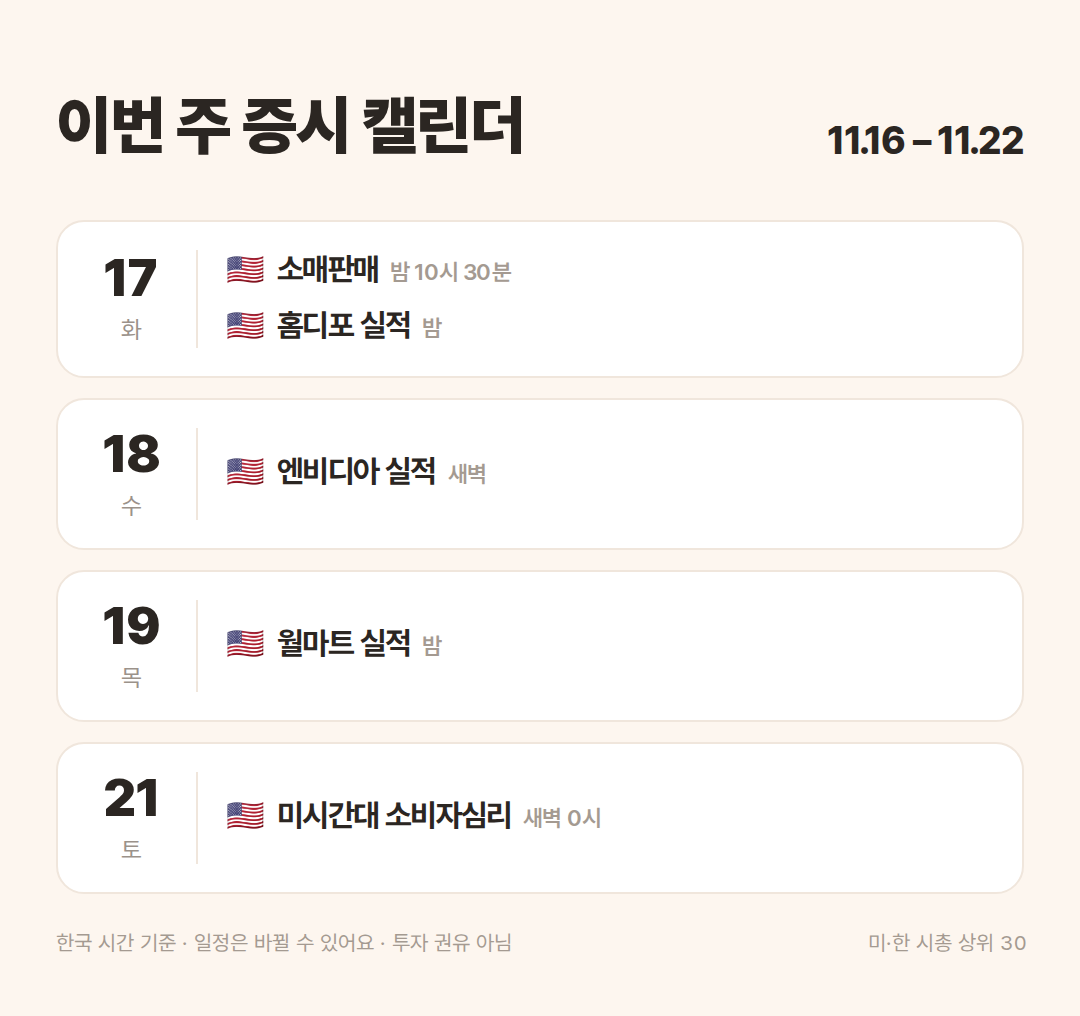
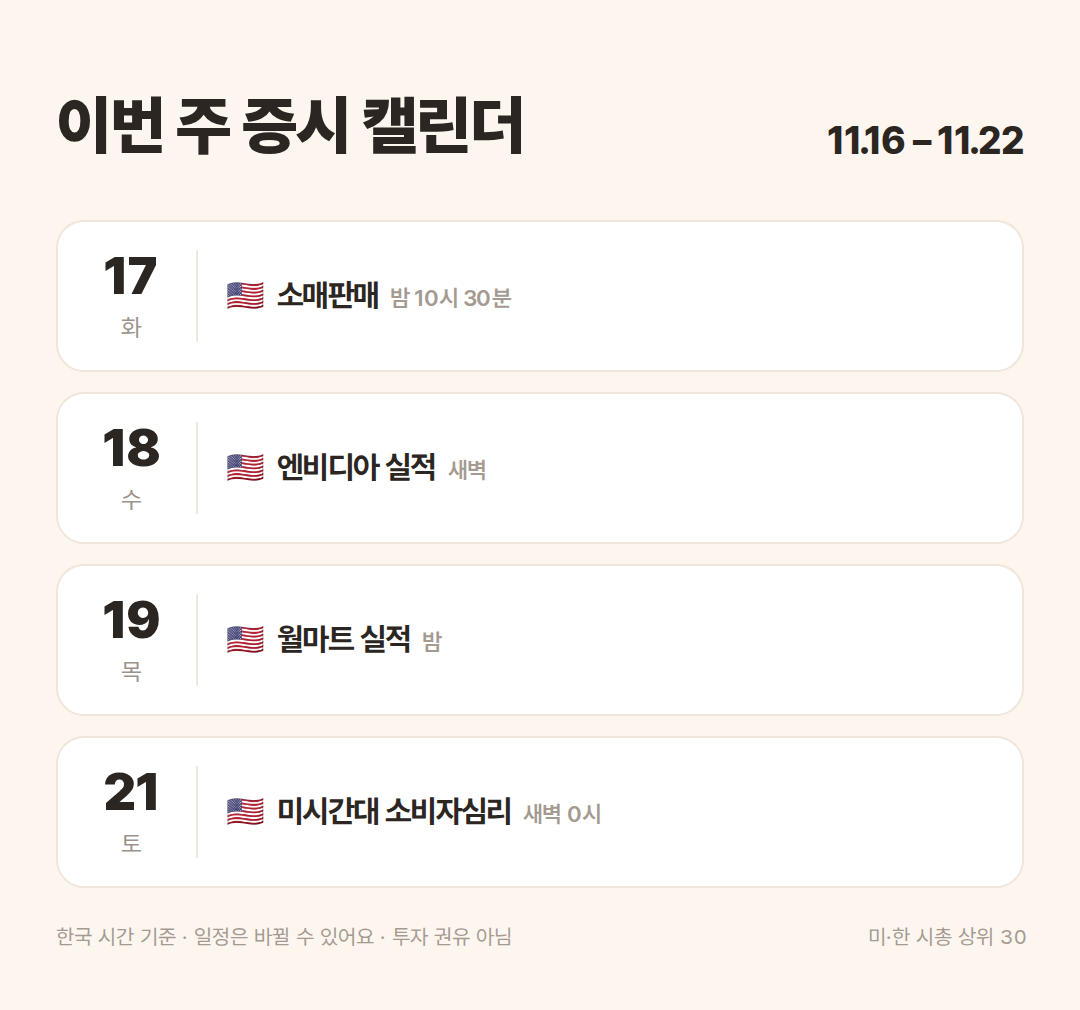
캘린더 갱신 2026-11-18

diff --git a/docs/2026-11-16/index.html b/docs/2026-11-16/index.html
@@ -46,16 +46,16 @@ tr.out{color:var(--sub)}
 </style></head><body>
 <div id="card">
 <div class="head"><h1>이번 주 증시 캘린더</h1><div class="range">11.16 – 11.22</div></div>
-<a class="card" href="#d2026-11-17"><div class="day"><div class="dn">17</div><div class="dw">화</div></div><div class="evs"><div class="ev"><span class="flag">🇺🇸</span><span class="ti">소매판매</span><span class="t">밤 10시 30분</span></div><div class="ev"><span class="flag">🇺🇸</span><span class="ti">홈디포 실적</span><span class="t">밤</span></div></div></a><a class="card" href="#d2026-11-18"><div class="day"><div class="dn">18</div><div class="dw">수</div></div><div class="evs"><div class="ev"><span class="flag">🇺🇸</span><span class="ti">엔비디아 실적</span><span class="t">새벽</span></div></div></a><a class="card" href="#d2026-11-19"><div class="day"><div class="dn">19</div><div class="dw">목</div></div><div class="evs"><div class="ev"><span class="flag">🇺🇸</span><span class="ti">월마트 실적</span><span class="t">밤</span></div></div></a><a class="card" href="#d2026-11-21"><div class="day"><div class="dn">21</div><div class="dw">토</div></div><div class="evs"><div class="ev"><span class="flag">🇺🇸</span><span class="ti">미시간대 소비자심리</span><span class="t">새벽 0시</span></div></div></a>
+<a class="card" href="#d2026-11-17"><div class="day"><div class="dn">17</div><div class="dw">화</div></div><div class="evs"><div class="ev"><span class="flag">🇺🇸</span><span class="ti">소매판매</span><span class="t">밤 10시 30분</span></div></div></a><a class="card" href="#d2026-11-18"><div class="day"><div class="dn">18</div><div class="dw">수</div></div><div class="evs"><div class="ev"><span class="flag">🇺🇸</span><span class="ti">엔비디아 실적</span><span class="t">새벽</span></div></div></a><a class="card" href="#d2026-11-19"><div class="day"><div class="dn">19</div><div class="dw">목</div></div><div class="evs"><div class="ev"><span class="flag">🇺🇸</span><span class="ti">월마트 실적</span><span class="t">밤</span></div></div></a><a class="card" href="#d2026-11-21"><div class="day"><div class="dn">21</div><div class="dw">토</div></div><div class="evs"><div class="ev"><span class="flag">🇺🇸</span><span class="ti">미시간대 소비자심리</span><span class="t">새벽 0시</span></div></div></a>
 <div class="foot"><span>한국 시간 기준 · 일정은 바뀔 수 있어요 · 투자 권유 아님</span><span>미·한 시총 상위 30</span></div>
 </div>
 <main>
-<section id="d2026-11-17"><h2>11월 17일 (화)</h2><div class="row"><span class="flag">🇺🇸</span><div class="rb"><div class="rt">소매판매 <span class="t">밤 10시 30분</span></div><div class="rd">미 동부 8:30 발표 · Advance Monthly Sales for Retail and Food Services</div></div><a class="src" href="https://fred.stlouisfed.org/release?rid=9" target="_blank" rel="noopener">원문 ↗</a></div><div class="row"><span class="flag">🇺🇸</span><div class="rb"><div class="rt">홈디포 실적 <span class="t">밤</span></div><div class="rd">미국 장 시작 전 · EPS 예상 $3.95 · 매출 예상 $44.1B</div></div><a class="src" href="https://www.nasdaq.com/market-activity/stocks/hd/earnings" target="_blank" rel="noopener">원문 ↗</a></div></section><section id="d2026-11-18"><h2>11월 18일 (수)</h2><div class="row"><span class="flag">🇺🇸</span><div class="rb"><div class="rt">엔비디아 실적 <span class="t">새벽</span></div><div class="rd">미국 장 마감 후 · EPS 예상 $2.52 · 매출 예상 $111.3B</div></div><a class="src" href="https://www.nasdaq.com/market-activity/stocks/nvda/earnings" target="_blank" rel="noopener">원문 ↗</a></div></section><section id="d2026-11-19"><h2>11월 19일 (목)</h2><div class="row"><span class="flag">🇺🇸</span><div class="rb"><div class="rt">월마트 실적 <span class="t">밤</span></div><div class="rd">미국 장 시작 전 · EPS 예상 $0.64 · 매출 예상 $189.1B</div></div><a class="src" href="https://www.nasdaq.com/market-activity/stocks/wmt/earnings" target="_blank" rel="noopener">원문 ↗</a></div></section><section id="d2026-11-21"><h2>11월 21일 (토)</h2><div class="row"><span class="flag">🇺🇸</span><div class="rb"><div class="rt">미시간대 소비자심리 <span class="t">새벽 0시</span></div><div class="rd">미 동부 10:00 발표 · Surveys of Consumers</div></div><a class="src" href="https://fred.stlouisfed.org/release?rid=91" target="_blank" rel="noopener">원문 ↗</a></div></section>
+<section id="d2026-11-17"><h2>11월 17일 (화)</h2><div class="row"><span class="flag">🇺🇸</span><div class="rb"><div class="rt">소매판매 <span class="t">밤 10시 30분</span></div><div class="rd">미 동부 8:30 발표 · Advance Monthly Sales for Retail and Food Services</div></div><a class="src" href="https://fred.stlouisfed.org/release?rid=9" target="_blank" rel="noopener">원문 ↗</a></div></section><section id="d2026-11-18"><h2>11월 18일 (수)</h2><div class="row"><span class="flag">🇺🇸</span><div class="rb"><div class="rt">엔비디아 실적 <span class="t">새벽</span></div><div class="rd">미국 장 마감 후 · EPS 예상 $2.52 · 매출 예상 $111.3B</div></div><a class="src" href="https://www.nasdaq.com/market-activity/stocks/nvda/earnings" target="_blank" rel="noopener">원문 ↗</a></div></section><section id="d2026-11-19"><h2>11월 19일 (목)</h2><div class="row"><span class="flag">🇺🇸</span><div class="rb"><div class="rt">월마트 실적 <span class="t">밤</span></div><div class="rd">미국 장 시작 전 · EPS 예상 $0.64 · 매출 예상 $189.1B</div></div><a class="src" href="https://www.nasdaq.com/market-activity/stocks/wmt/earnings" target="_blank" rel="noopener">원문 ↗</a></div></section><section id="d2026-11-21"><h2>11월 21일 (토)</h2><div class="row"><span class="flag">🇺🇸</span><div class="rb"><div class="rt">미시간대 소비자심리 <span class="t">새벽 0시</span></div><div class="rd">미 동부 10:00 발표 · Surveys of Consumers</div></div><a class="src" href="https://fred.stlouisfed.org/release?rid=91" target="_blank" rel="noopener">원문 ↗</a></div></section>
 <h3>백데이터</h3>
 <details><summary>수집 현황</summary><div class="tw"><table><tr><th>소스</th><th>상태</th><th>건수</th><th>오류</th></tr><tr><td>미국 시총 순위 (Finnhub)</td><td>✅</td><td>63</td><td class="err"></td></tr><tr><td>한국 시총 순위 (네이버)</td><td>✅</td><td>30</td><td class="err"></td></tr><tr><td>미국 실적 (Finnhub)</td><td>✅</td><td>5</td><td class="err"></td></tr><tr><td>한국 실적 (DART)</td><td>✅</td><td>0</td><td class="err"></td></tr><tr><td>미국 경제지표 (FRED)</td><td>✅</td><td>2</td><td class="err"></td></tr><tr><td>한국 수출입 (규칙)</td><td>✅</td><td>0</td><td class="err"></td></tr><tr><td>고정 일정 (events.json)</td><td>✅</td><td>0</td><td class="err"></td></tr></table></div></details>
-<details><summary>기준에서 빠진 실적 일정 (2건)</summary><div class="tw"><table><tr><th>날짜</th><th>일정</th><th>이유</th></tr><tr><td>11-17</td><td>디즈니 실적</td><td>미국 시총 47위</td></tr><tr><td>11-21</td><td>인튜이트 실적</td><td>미국 시총 63위</td></tr></table></div></details>
-<details><summary>미국 시총 순위 (후보 63개 중 상위 30)</summary><div class="tw"><table><tr><th>#</th><th>종목</th><th>티커</th><th>시총</th></tr><tr class="in"><td>1</td><td>애플</td><td>AAPL</td><td>$5,127B</td></tr><tr class="in"><td>2</td><td>마이크로소프트</td><td>MSFT</td><td>$3,847B</td></tr><tr class="in"><td>3</td><td>엔비디아</td><td>NVDA</td><td>$3,763B</td></tr><tr class="in"><td>4</td><td>알파벳</td><td>GOOGL</td><td>$3,488B</td></tr><tr class="in"><td>5</td><td>아마존</td><td>AMZN</td><td>$2,787B</td></tr><tr class="in"><td>6</td><td>TSMC</td><td>TSM</td><td>$1,937B</td></tr><tr class="in"><td>7</td><td>메타</td><td>META</td><td>$1,601B</td></tr><tr class="in"><td>8</td><td>브로드컴</td><td>AVGO</td><td>$1,592B</td></tr><tr class="in"><td>9</td><td>테슬라</td><td>TSLA</td><td>$1,501B</td></tr><tr class="in"><td>10</td><td>일라이릴리</td><td>LLY</td><td>$1,347B</td></tr><tr class="in"><td>11</td><td>버크셔해서웨이</td><td>BRK.B</td><td>$1,257B</td></tr><tr class="in"><td>12</td><td>월마트</td><td>WMT</td><td>$980B</td></tr><tr class="in"><td>13</td><td>JP모건</td><td>JPM</td><td>$898B</td></tr><tr class="in"><td>14</td><td>AMD</td><td>AMD</td><td>$827B</td></tr><tr class="in"><td>15</td><td>마이크론</td><td>MU</td><td>$814B</td></tr><tr class="in"><td>16</td><td>비자</td><td>V</td><td>$769B</td></tr><tr class="in"><td>17</td><td>엑슨모빌</td><td>XOM</td><td>$764B</td></tr><tr class="in"><td>18</td><td>존슨앤드존슨</td><td>JNJ</td><td>$680B</td></tr><tr class="in"><td>19</td><td>마스터카드</td><td>MA</td><td>$576B</td></tr><tr class="in"><td>20</td><td>ASML</td><td>ASML</td><td>$546B</td></tr><tr class="in"><td>21</td><td>애브비</td><td>ABBV</td><td>$521B</td></tr><tr class="in"><td>22</td><td>코스트코</td><td>COST</td><td>$494B</td></tr><tr class="in"><td>23</td><td>코카콜라</td><td>KO</td><td>$428B</td></tr><tr class="in"><td>24</td><td>셰브론</td><td>CVX</td><td>$427B</td></tr><tr class="in"><td>25</td><td>P&amp;G</td><td>PG</td><td>$401B</td></tr><tr class="in"><td>26</td><td>팔란티어</td><td>PLTR</td><td>$386B</td></tr><tr class="in"><td>27</td><td>시스코</td><td>CSCO</td><td>$372B</td></tr><tr class="in"><td>28</td><td>유나이티드헬스</td><td>UNH</td><td>$365B</td></tr><tr class="in"><td>29</td><td>오라클</td><td>ORCL</td><td>$360B</td></tr><tr class="in"><td>30</td><td>홈디포</td><td>HD</td><td>$347B</td></tr><tr class="out"><td>31</td><td>뱅크오브아메리카</td><td>BAC</td><td>$346B</td></tr><tr class="out"><td>32</td><td>GE에어로스페이스</td><td>GE</td><td>$336B</td></tr><tr class="out"><td>33</td><td>필립모리스</td><td>PM</td><td>$306B</td></tr><tr class="out"><td>34</td><td>인텔</td><td>INTC</td><td>$295B</td></tr><tr class="out"><td>35</td><td>모건스탠리</td><td>MS</td><td>$290B</td></tr><tr class="out"><td>36</td><td>어플라이드머티어리얼즈</td><td>AMAT</td><td>$278B</td></tr><tr class="out"><td>37</td><td>램리서치</td><td>LRCX</td><td>$263B</td></tr><tr class="out"><td>38</td><td>RTX</td><td>RTX</td><td>$263B</td></tr><tr class="out"><td>39</td><td>캐터필러</td><td>CAT</td><td>$261B</td></tr><tr class="out"><td>40</td><td>골드만삭스</td><td>GS</td><td>$257B</td></tr><tr class="out"><td>41</td><td>웰스파고</td><td>WFC</td><td>$250B</td></tr><tr class="out"><td>42</td><td>넷플릭스</td><td>NFLX</td><td>$250B</td></tr><tr class="out"><td>43</td><td>린데</td><td>LIN</td><td>$240B</td></tr><tr class="out"><td>44</td><td>아리스타</td><td>ANET</td><td>$236B</td></tr><tr class="out"><td>45</td><td>IBM</td><td>IBM</td><td>$229B</td></tr><tr class="out"><td>46</td><td>아메리칸익스프레스</td><td>AXP</td><td>$214B</td></tr><tr class="out"><td>47</td><td>디즈니</td><td>DIS</td><td>$205B</td></tr><tr class="out"><td>48</td><td>펩시코</td><td>PEP</td><td>$200B</td></tr><tr class="out"><td>49</td><td>맥도날드</td><td>MCD</td><td>$194B</td></tr><tr class="out"><td>50</td><td>KLA</td><td>KLAC</td><td>$188B</td></tr><tr class="out"><td>51</td><td>애보트</td><td>ABT</td><td>$186B</td></tr><tr class="out"><td>52</td><td>퀄컴</td><td>QCOM</td><td>$180B</td></tr><tr class="out"><td>53</td><td>T모바일</td><td>TMUS</td><td>$180B</td></tr><tr class="out"><td>54</td><td>세일즈포스</td><td>CRM</td><td>$177B</td></tr><tr class="out"><td>55</td><td>찰스슈왑</td><td>SCHW</td><td>$160B</td></tr><tr class="out"><td>56</td><td>인튜이티브서지컬</td><td>ISRG</td><td>$152B</td></tr><tr class="out"><td>57</td><td>AT&amp;T</td><td>T</td><td>$151B</td></tr><tr class="out"><td>58</td><td>블랙스톤</td><td>BX</td><td>$144B</td></tr><tr class="out"><td>59</td><td>앱러빈</td><td>APP</td><td>$138B</td></tr><tr class="out"><td>60</td><td>우버</td><td>UBER</td><td>$136B</td></tr><tr class="out"><td>61</td><td>부킹홀딩스</td><td>BKNG</td><td>$117B</td></tr><tr class="out"><td>62</td><td>서비스나우</td><td>NOW</td><td>$103B</td></tr><tr class="out"><td>63</td><td>인튜이트</td><td>INTU</td><td>$92B</td></tr></table></div></details>
-<details><summary>한국 시총 상위 30 (보통주)</summary><div class="tw"><table><tr><th>#</th><th>종목</th><th>시장</th><th>시총</th></tr><tr class="in"><td>1</td><td>삼성전자</td><td>KOSPI</td><td>1,113.7조</td></tr><tr class="in"><td>2</td><td>SK하이닉스</td><td>KOSPI</td><td>783.8조</td></tr><tr class="in"><td>3</td><td>SK스퀘어</td><td>KOSPI</td><td>90.6조</td></tr><tr class="in"><td>4</td><td>LG에너지솔루션</td><td>KOSPI</td><td>72.5조</td></tr><tr class="in"><td>5</td><td>삼성바이오로직스</td><td>KOSPI</td><td>66.1조</td></tr><tr class="in"><td>6</td><td>삼성전기</td><td>KOSPI</td><td>56.5조</td></tr><tr class="in"><td>7</td><td>KB금융</td><td>KOSPI</td><td>55.7조</td></tr><tr class="in"><td>8</td><td>현대차</td><td>KOSPI</td><td>52.7조</td></tr><tr class="in"><td>9</td><td>셀트리온</td><td>KOSPI</td><td>49.4조</td></tr><tr class="in"><td>10</td><td>삼성생명</td><td>KOSPI</td><td>48.3조</td></tr><tr class="in"><td>11</td><td>삼성물산</td><td>KOSPI</td><td>42.9조</td></tr><tr class="in"><td>12</td><td>신한지주</td><td>KOSPI</td><td>41.2조</td></tr><tr class="in"><td>13</td><td>삼성SDI</td><td>KOSPI</td><td>36.4조</td></tr><tr class="in"><td>14</td><td>기아</td><td>KOSPI</td><td>35.8조</td></tr><tr class="in"><td>15</td><td>SK</td><td>KOSPI</td><td>34.1조</td></tr><tr class="in"><td>16</td><td>하나금융지주</td><td>KOSPI</td><td>33.9조</td></tr><tr class="in"><td>17</td><td>한화에어로스페이스</td><td>KOSPI</td><td>31.9조</td></tr><tr class="in"><td>18</td><td>현대모비스</td><td>KOSPI</td><td>31.3조</td></tr><tr class="in"><td>19</td><td>두산에너빌리티</td><td>KOSPI</td><td>27.5조</td></tr><tr class="in"><td>20</td><td>HD현대중공업</td><td>KOSPI</td><td>27.2조</td></tr><tr class="in"><td>21</td><td>NAVER</td><td>KOSPI</td><td>25.9조</td></tr><tr class="in"><td>22</td><td>우리금융지주</td><td>KOSPI</td><td>24.0조</td></tr><tr class="in"><td>23</td><td>삼성화재</td><td>KOSPI</td><td>23.4조</td></tr><tr class="in"><td>24</td><td>LG전자</td><td>KOSPI</td><td>21.0조</td></tr><tr class="in"><td>25</td><td>POSCO홀딩스</td><td>KOSPI</td><td>20.8조</td></tr><tr class="in"><td>26</td><td>HMM</td><td>KOSPI</td><td>20.4조</td></tr><tr class="in"><td>27</td><td>메리츠금융지주</td><td>KOSPI</td><td>20.1조</td></tr><tr class="in"><td>28</td><td>KT&amp;G</td><td>KOSPI</td><td>18.8조</td></tr><tr class="in"><td>29</td><td>SK텔레콤</td><td>KOSPI</td><td>17.7조</td></tr><tr class="in"><td>30</td><td>SK이노베이션</td><td>KOSPI</td><td>17.6조</td></tr></table></div></details>
-<div class="meta"><span>업데이트 2026-11-17 13:18 KST</span><span><a href="data.json">data.json</a> · <a href="../">지난 캘린더</a></span></div>
+<details><summary>기준에서 빠진 실적 일정 (3건)</summary><div class="tw"><table><tr><th>날짜</th><th>일정</th><th>이유</th></tr><tr><td>11-17</td><td>홈디포 실적</td><td>미국 시총 31위</td></tr><tr><td>11-17</td><td>디즈니 실적</td><td>미국 시총 47위</td></tr><tr><td>11-20</td><td>인튜이트 실적</td><td>미국 시총 63위</td></tr></table></div></details>
+<details><summary>미국 시총 순위 (후보 63개 중 상위 30)</summary><div class="tw"><table><tr><th>#</th><th>종목</th><th>티커</th><th>시총</th></tr><tr class="in"><td>1</td><td>애플</td><td>AAPL</td><td>$5,114B</td></tr><tr class="in"><td>2</td><td>마이크로소프트</td><td>MSFT</td><td>$3,759B</td></tr><tr class="in"><td>3</td><td>엔비디아</td><td>NVDA</td><td>$3,747B</td></tr><tr class="in"><td>4</td><td>알파벳</td><td>GOOGL</td><td>$3,445B</td></tr><tr class="in"><td>5</td><td>아마존</td><td>AMZN</td><td>$2,789B</td></tr><tr class="in"><td>6</td><td>TSMC</td><td>TSM</td><td>$1,866B</td></tr><tr class="in"><td>7</td><td>브로드컴</td><td>AVGO</td><td>$1,631B</td></tr><tr class="in"><td>8</td><td>메타</td><td>META</td><td>$1,582B</td></tr><tr class="in"><td>9</td><td>테슬라</td><td>TSLA</td><td>$1,501B</td></tr><tr class="in"><td>10</td><td>일라이릴리</td><td>LLY</td><td>$1,332B</td></tr><tr class="in"><td>11</td><td>버크셔해서웨이</td><td>BRK.B</td><td>$1,246B</td></tr><tr class="in"><td>12</td><td>월마트</td><td>WMT</td><td>$980B</td></tr><tr class="in"><td>13</td><td>JP모건</td><td>JPM</td><td>$876B</td></tr><tr class="in"><td>14</td><td>AMD</td><td>AMD</td><td>$826B</td></tr><tr class="in"><td>15</td><td>마이크론</td><td>MU</td><td>$806B</td></tr><tr class="in"><td>16</td><td>비자</td><td>V</td><td>$769B</td></tr><tr class="in"><td>17</td><td>엑슨모빌</td><td>XOM</td><td>$764B</td></tr><tr class="in"><td>18</td><td>존슨앤드존슨</td><td>JNJ</td><td>$671B</td></tr><tr class="in"><td>19</td><td>마스터카드</td><td>MA</td><td>$562B</td></tr><tr class="in"><td>20</td><td>ASML</td><td>ASML</td><td>$537B</td></tr><tr class="in"><td>21</td><td>애브비</td><td>ABBV</td><td>$518B</td></tr><tr class="in"><td>22</td><td>코스트코</td><td>COST</td><td>$492B</td></tr><tr class="in"><td>23</td><td>코카콜라</td><td>KO</td><td>$425B</td></tr><tr class="in"><td>24</td><td>셰브론</td><td>CVX</td><td>$425B</td></tr><tr class="in"><td>25</td><td>P&amp;G</td><td>PG</td><td>$398B</td></tr><tr class="in"><td>26</td><td>팔란티어</td><td>PLTR</td><td>$377B</td></tr><tr class="in"><td>27</td><td>시스코</td><td>CSCO</td><td>$374B</td></tr><tr class="in"><td>28</td><td>유나이티드헬스</td><td>UNH</td><td>$365B</td></tr><tr class="in"><td>29</td><td>오라클</td><td>ORCL</td><td>$348B</td></tr><tr class="in"><td>30</td><td>뱅크오브아메리카</td><td>BAC</td><td>$341B</td></tr><tr class="out"><td>31</td><td>홈디포</td><td>HD</td><td>$338B</td></tr><tr class="out"><td>32</td><td>GE에어로스페이스</td><td>GE</td><td>$337B</td></tr><tr class="out"><td>33</td><td>필립모리스</td><td>PM</td><td>$303B</td></tr><tr class="out"><td>34</td><td>인텔</td><td>INTC</td><td>$293B</td></tr><tr class="out"><td>35</td><td>모건스탠리</td><td>MS</td><td>$287B</td></tr><tr class="out"><td>36</td><td>어플라이드머티어리얼즈</td><td>AMAT</td><td>$277B</td></tr><tr class="out"><td>37</td><td>RTX</td><td>RTX</td><td>$267B</td></tr><tr class="out"><td>38</td><td>램리서치</td><td>LRCX</td><td>$263B</td></tr><tr class="out"><td>39</td><td>캐터필러</td><td>CAT</td><td>$261B</td></tr><tr class="out"><td>40</td><td>골드만삭스</td><td>GS</td><td>$253B</td></tr><tr class="out"><td>41</td><td>웰스파고</td><td>WFC</td><td>$250B</td></tr><tr class="out"><td>42</td><td>넷플릭스</td><td>NFLX</td><td>$245B</td></tr><tr class="out"><td>43</td><td>린데</td><td>LIN</td><td>$236B</td></tr><tr class="out"><td>44</td><td>아리스타</td><td>ANET</td><td>$236B</td></tr><tr class="out"><td>45</td><td>IBM</td><td>IBM</td><td>$218B</td></tr><tr class="out"><td>46</td><td>아메리칸익스프레스</td><td>AXP</td><td>$212B</td></tr><tr class="out"><td>47</td><td>디즈니</td><td>DIS</td><td>$202B</td></tr><tr class="out"><td>48</td><td>맥도날드</td><td>MCD</td><td>$195B</td></tr><tr class="out"><td>49</td><td>펩시코</td><td>PEP</td><td>$194B</td></tr><tr class="out"><td>50</td><td>KLA</td><td>KLAC</td><td>$188B</td></tr><tr class="out"><td>51</td><td>애보트</td><td>ABT</td><td>$181B</td></tr><tr class="out"><td>52</td><td>퀄컴</td><td>QCOM</td><td>$178B</td></tr><tr class="out"><td>53</td><td>T모바일</td><td>TMUS</td><td>$178B</td></tr><tr class="out"><td>54</td><td>세일즈포스</td><td>CRM</td><td>$160B</td></tr><tr class="out"><td>55</td><td>찰스슈왑</td><td>SCHW</td><td>$158B</td></tr><tr class="out"><td>56</td><td>AT&amp;T</td><td>T</td><td>$150B</td></tr><tr class="out"><td>57</td><td>인튜이티브서지컬</td><td>ISRG</td><td>$149B</td></tr><tr class="out"><td>58</td><td>블랙스톤</td><td>BX</td><td>$144B</td></tr><tr class="out"><td>59</td><td>우버</td><td>UBER</td><td>$136B</td></tr><tr class="out"><td>60</td><td>앱러빈</td><td>APP</td><td>$132B</td></tr><tr class="out"><td>61</td><td>부킹홀딩스</td><td>BKNG</td><td>$115B</td></tr><tr class="out"><td>62</td><td>서비스나우</td><td>NOW</td><td>$96B</td></tr><tr class="out"><td>63</td><td>인튜이트</td><td>INTU</td><td>$86B</td></tr></table></div></details>
+<details><summary>한국 시총 상위 30 (보통주)</summary><div class="tw"><table><tr><th>#</th><th>종목</th><th>시장</th><th>시총</th></tr><tr class="in"><td>1</td><td>삼성전자</td><td>KOSPI</td><td>1,117.2조</td></tr><tr class="in"><td>2</td><td>SK하이닉스</td><td>KOSPI</td><td>800.8조</td></tr><tr class="in"><td>3</td><td>SK스퀘어</td><td>KOSPI</td><td>91.6조</td></tr><tr class="in"><td>4</td><td>LG에너지솔루션</td><td>KOSPI</td><td>70.3조</td></tr><tr class="in"><td>5</td><td>삼성바이오로직스</td><td>KOSPI</td><td>64.1조</td></tr><tr class="in"><td>6</td><td>삼성전기</td><td>KOSPI</td><td>57.5조</td></tr><tr class="in"><td>7</td><td>KB금융</td><td>KOSPI</td><td>55.2조</td></tr><tr class="in"><td>8</td><td>현대차</td><td>KOSPI</td><td>52.0조</td></tr><tr class="in"><td>9</td><td>삼성생명</td><td>KOSPI</td><td>49.9조</td></tr><tr class="in"><td>10</td><td>셀트리온</td><td>KOSPI</td><td>48.9조</td></tr><tr class="in"><td>11</td><td>삼성물산</td><td>KOSPI</td><td>43.2조</td></tr><tr class="in"><td>12</td><td>신한지주</td><td>KOSPI</td><td>40.3조</td></tr><tr class="in"><td>13</td><td>기아</td><td>KOSPI</td><td>35.4조</td></tr><tr class="in"><td>14</td><td>삼성SDI</td><td>KOSPI</td><td>34.9조</td></tr><tr class="in"><td>15</td><td>SK</td><td>KOSPI</td><td>34.9조</td></tr><tr class="in"><td>16</td><td>하나금융지주</td><td>KOSPI</td><td>33.5조</td></tr><tr class="in"><td>17</td><td>한화에어로스페이스</td><td>KOSPI</td><td>32.6조</td></tr><tr class="in"><td>18</td><td>현대모비스</td><td>KOSPI</td><td>31.5조</td></tr><tr class="in"><td>19</td><td>두산에너빌리티</td><td>KOSPI</td><td>27.0조</td></tr><tr class="in"><td>20</td><td>HD현대중공업</td><td>KOSPI</td><td>26.6조</td></tr><tr class="in"><td>21</td><td>NAVER</td><td>KOSPI</td><td>25.7조</td></tr><tr class="in"><td>22</td><td>삼성화재</td><td>KOSPI</td><td>24.1조</td></tr><tr class="in"><td>23</td><td>우리금융지주</td><td>KOSPI</td><td>23.8조</td></tr><tr class="in"><td>24</td><td>LG전자</td><td>KOSPI</td><td>21.2조</td></tr><tr class="in"><td>25</td><td>HMM</td><td>KOSPI</td><td>20.8조</td></tr><tr class="in"><td>26</td><td>POSCO홀딩스</td><td>KOSPI</td><td>20.7조</td></tr><tr class="in"><td>27</td><td>메리츠금융지주</td><td>KOSPI</td><td>20.6조</td></tr><tr class="in"><td>28</td><td>KT&amp;G</td><td>KOSPI</td><td>19.1조</td></tr><tr class="in"><td>29</td><td>SK이노베이션</td><td>KOSPI</td><td>17.4조</td></tr><tr class="in"><td>30</td><td>삼성에스디에스</td><td>KOSPI</td><td>17.4조</td></tr></table></div></details>
+<div class="meta"><span>업데이트 2026-11-18 12:23 KST</span><span><a href="data.json">data.json</a> · <a href="../">지난 캘린더</a></span></div>
 </main>
 </body></html>

diff --git a/docs/index.html b/docs/index.html
@@ -3,4 +3,4 @@
 <link href="https://cdn.jsdelivr.net/gh/orioncactus/pretendard@v1.3.9/dist/web/static/pretendard.min.css" rel="stylesheet">
 <style>*{box-sizing:border-box;margin:0}body{background:#fdf6ef;color:#2b2622;font-family:Pretendard,-apple-system,sans-serif;max-width:720px;margin:0 auto;padding:40px 16px}
 h1{font-size:28px;font-weight:900;margin-bottom:20px}.w{display:flex;justify-content:space-between;background:#fff;border:1.5px solid #f0e6dc;border-radius:12px;padding:14px 16px;margin-bottom:8px;color:inherit;text-decoration:none}
-.w span{color:#a49a91;font-size:13px}</style></head><body><h1>주간 증시 캘린더</h1><a class="w" href="daily/"><b>📰 데일리 브리핑 모아보기</b><span>→</span></a><a class="w" href="2026-11-16/"><b>2026. 11.16 – 11.22</b><span>일정 5건</span></a><a class="w" href="2026-11-09/"><b>2026. 11.9 – 11.15</b><span>일정 7건</span></a><a class="w" href="2026-11-02/"><b>2026. 11.2 – 11.8</b><span>일정 8건</span></a><a class="w" href="2026-10-26/"><b>2026. 10.26 – 11.1</b><span>일정 26건</span></a><a class="w" href="2026-10-19/"><b>2026. 10.19 – 10.25</b><span>일정 10건</span></a></body></html>
+.w span{color:#a49a91;font-size:13px}</style></head><body><h1>주간 증시 캘린더</h1><a class="w" href="daily/"><b>📰 데일리 브리핑 모아보기</b><span>→</span></a><a class="w" href="2026-11-16/"><b>2026. 11.16 – 11.22</b><span>일정 4건</span></a><a class="w" href="2026-11-09/"><b>2026. 11.9 – 11.15</b><span>일정 7건</span></a><a class="w" href="2026-11-02/"><b>2026. 11.2 – 11.8</b><span>일정 8건</span></a><a class="w" href="2026-10-26/"><b>2026. 10.26 – 11.1</b><span>일정 26건</span></a><a class="w" href="2026-10-19/"><b>2026. 10.19 – 10.25</b><span>일정 10건</span></a></body></html>
